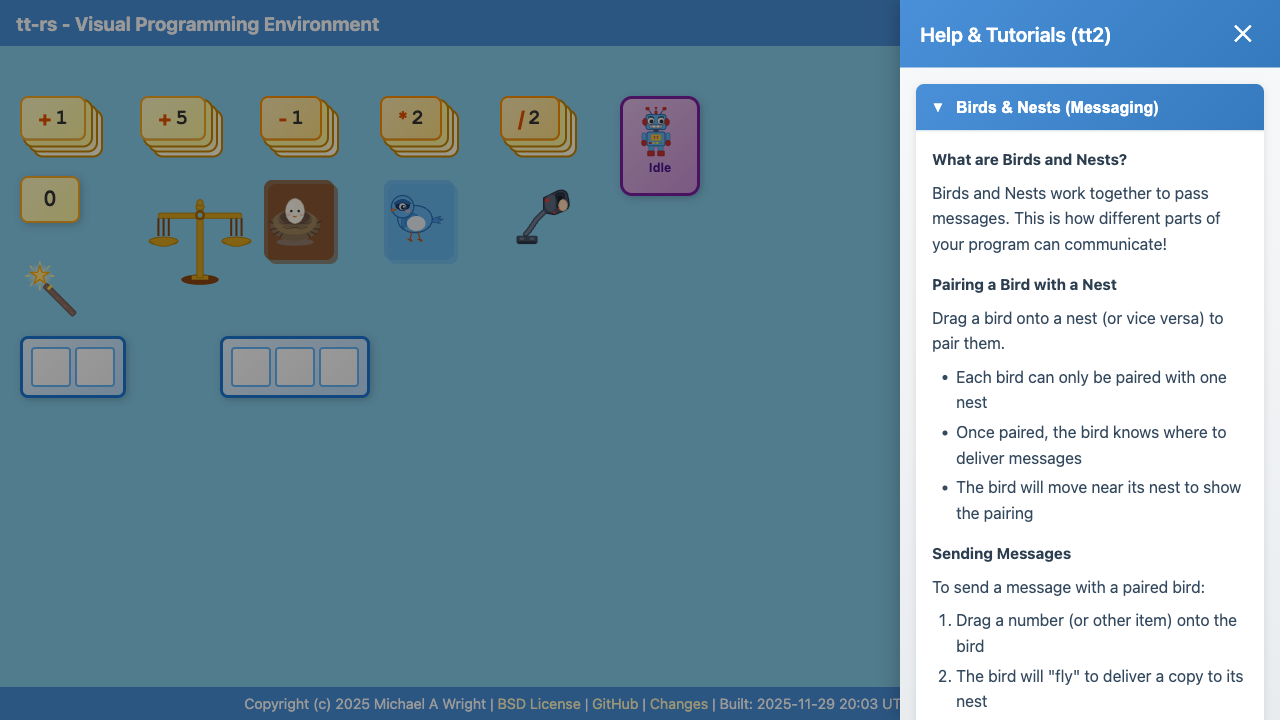
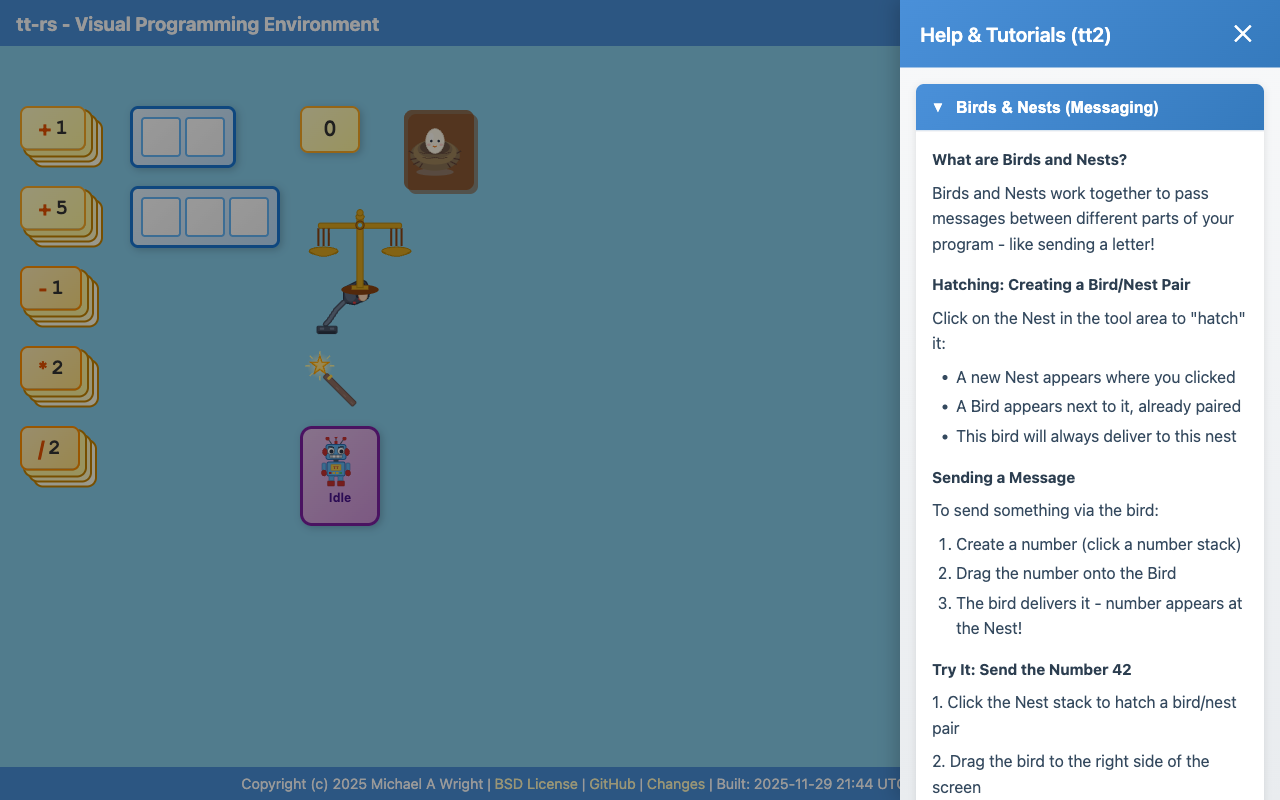
fix: Tooltip z-index for copy sources and update screenshot
- Add CSS rule for .copy-source-stack:has(.tooltip-wrapper:hover)
  to elevate tooltip above other elements (matches .draggable rule)
- Update screenshot1.png to show tt2 level with Bird/Nest messaging
  help expanded (follows screenshot conventions for latest feature)

🤖 Generated with [Claude Code](https://claude.com/claude-code)

diff --git a/components/app/crates/tt-rs-app/assets/styles/main.css b/components/app/crates/tt-rs-app/assets/styles/main.css
@@ -639,6 +639,11 @@ body.dragging-active .widget.number:not(.copy-source) {
     z-index: var(--z-tooltip-hover) !important;
 }
 
+/* Elevate copy source stacks when showing tooltip */
+.copy-source-stack:has(.tooltip-wrapper:hover) {
+    z-index: var(--z-tooltip-hover) !important;
+}
+
 .tooltip-content {
     position: absolute;
     min-width: 180px;
